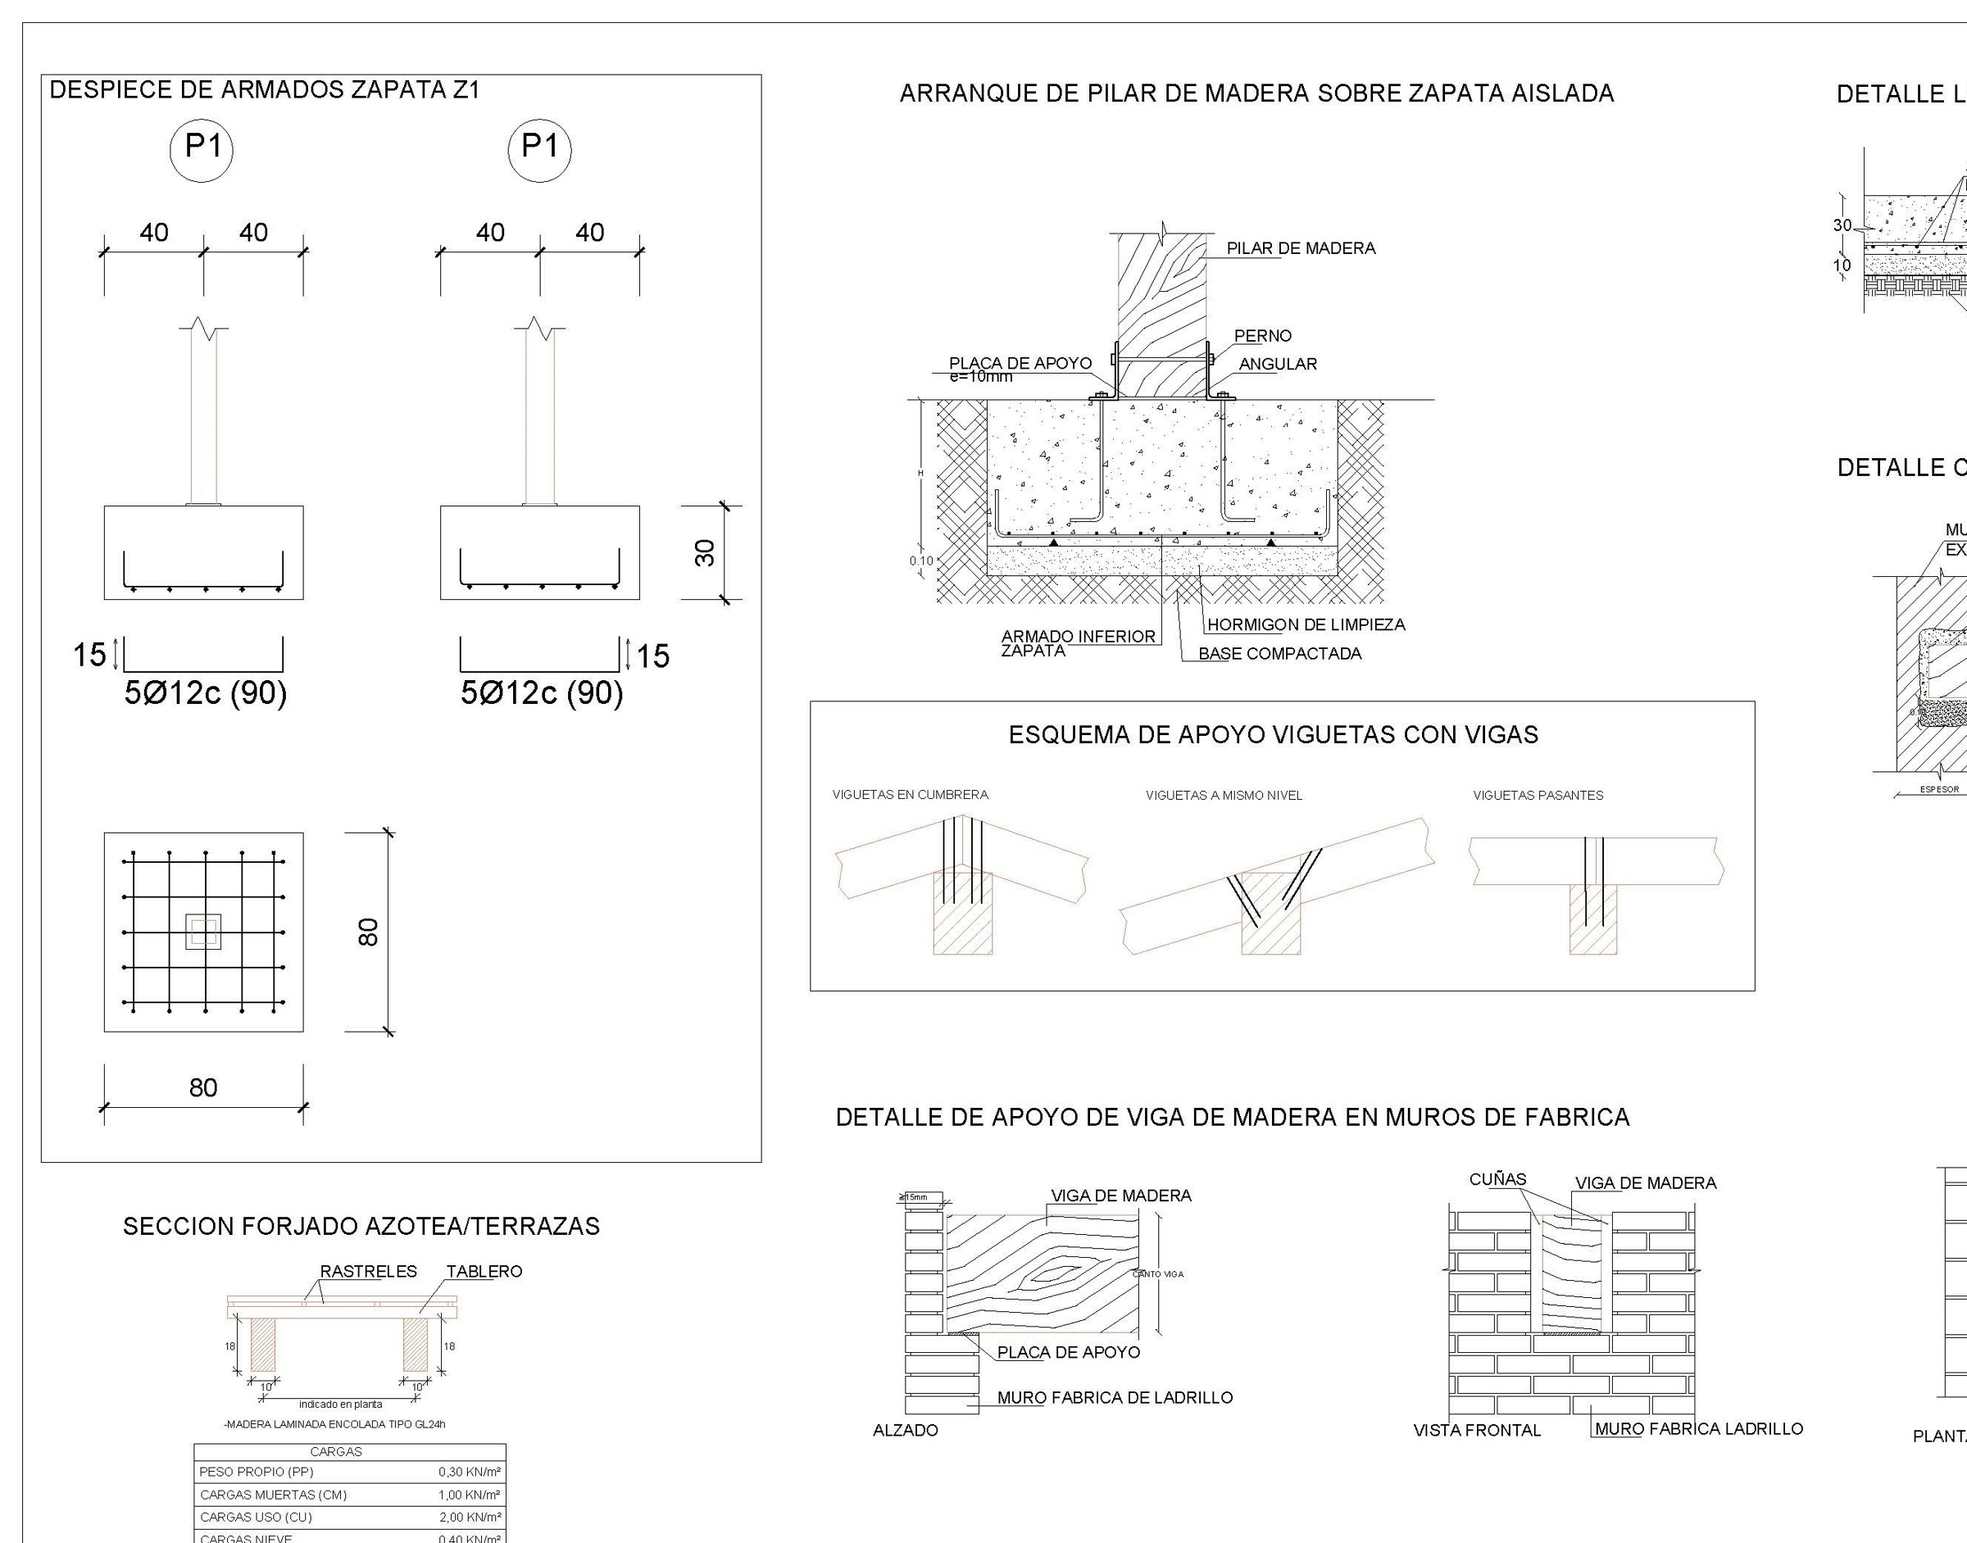
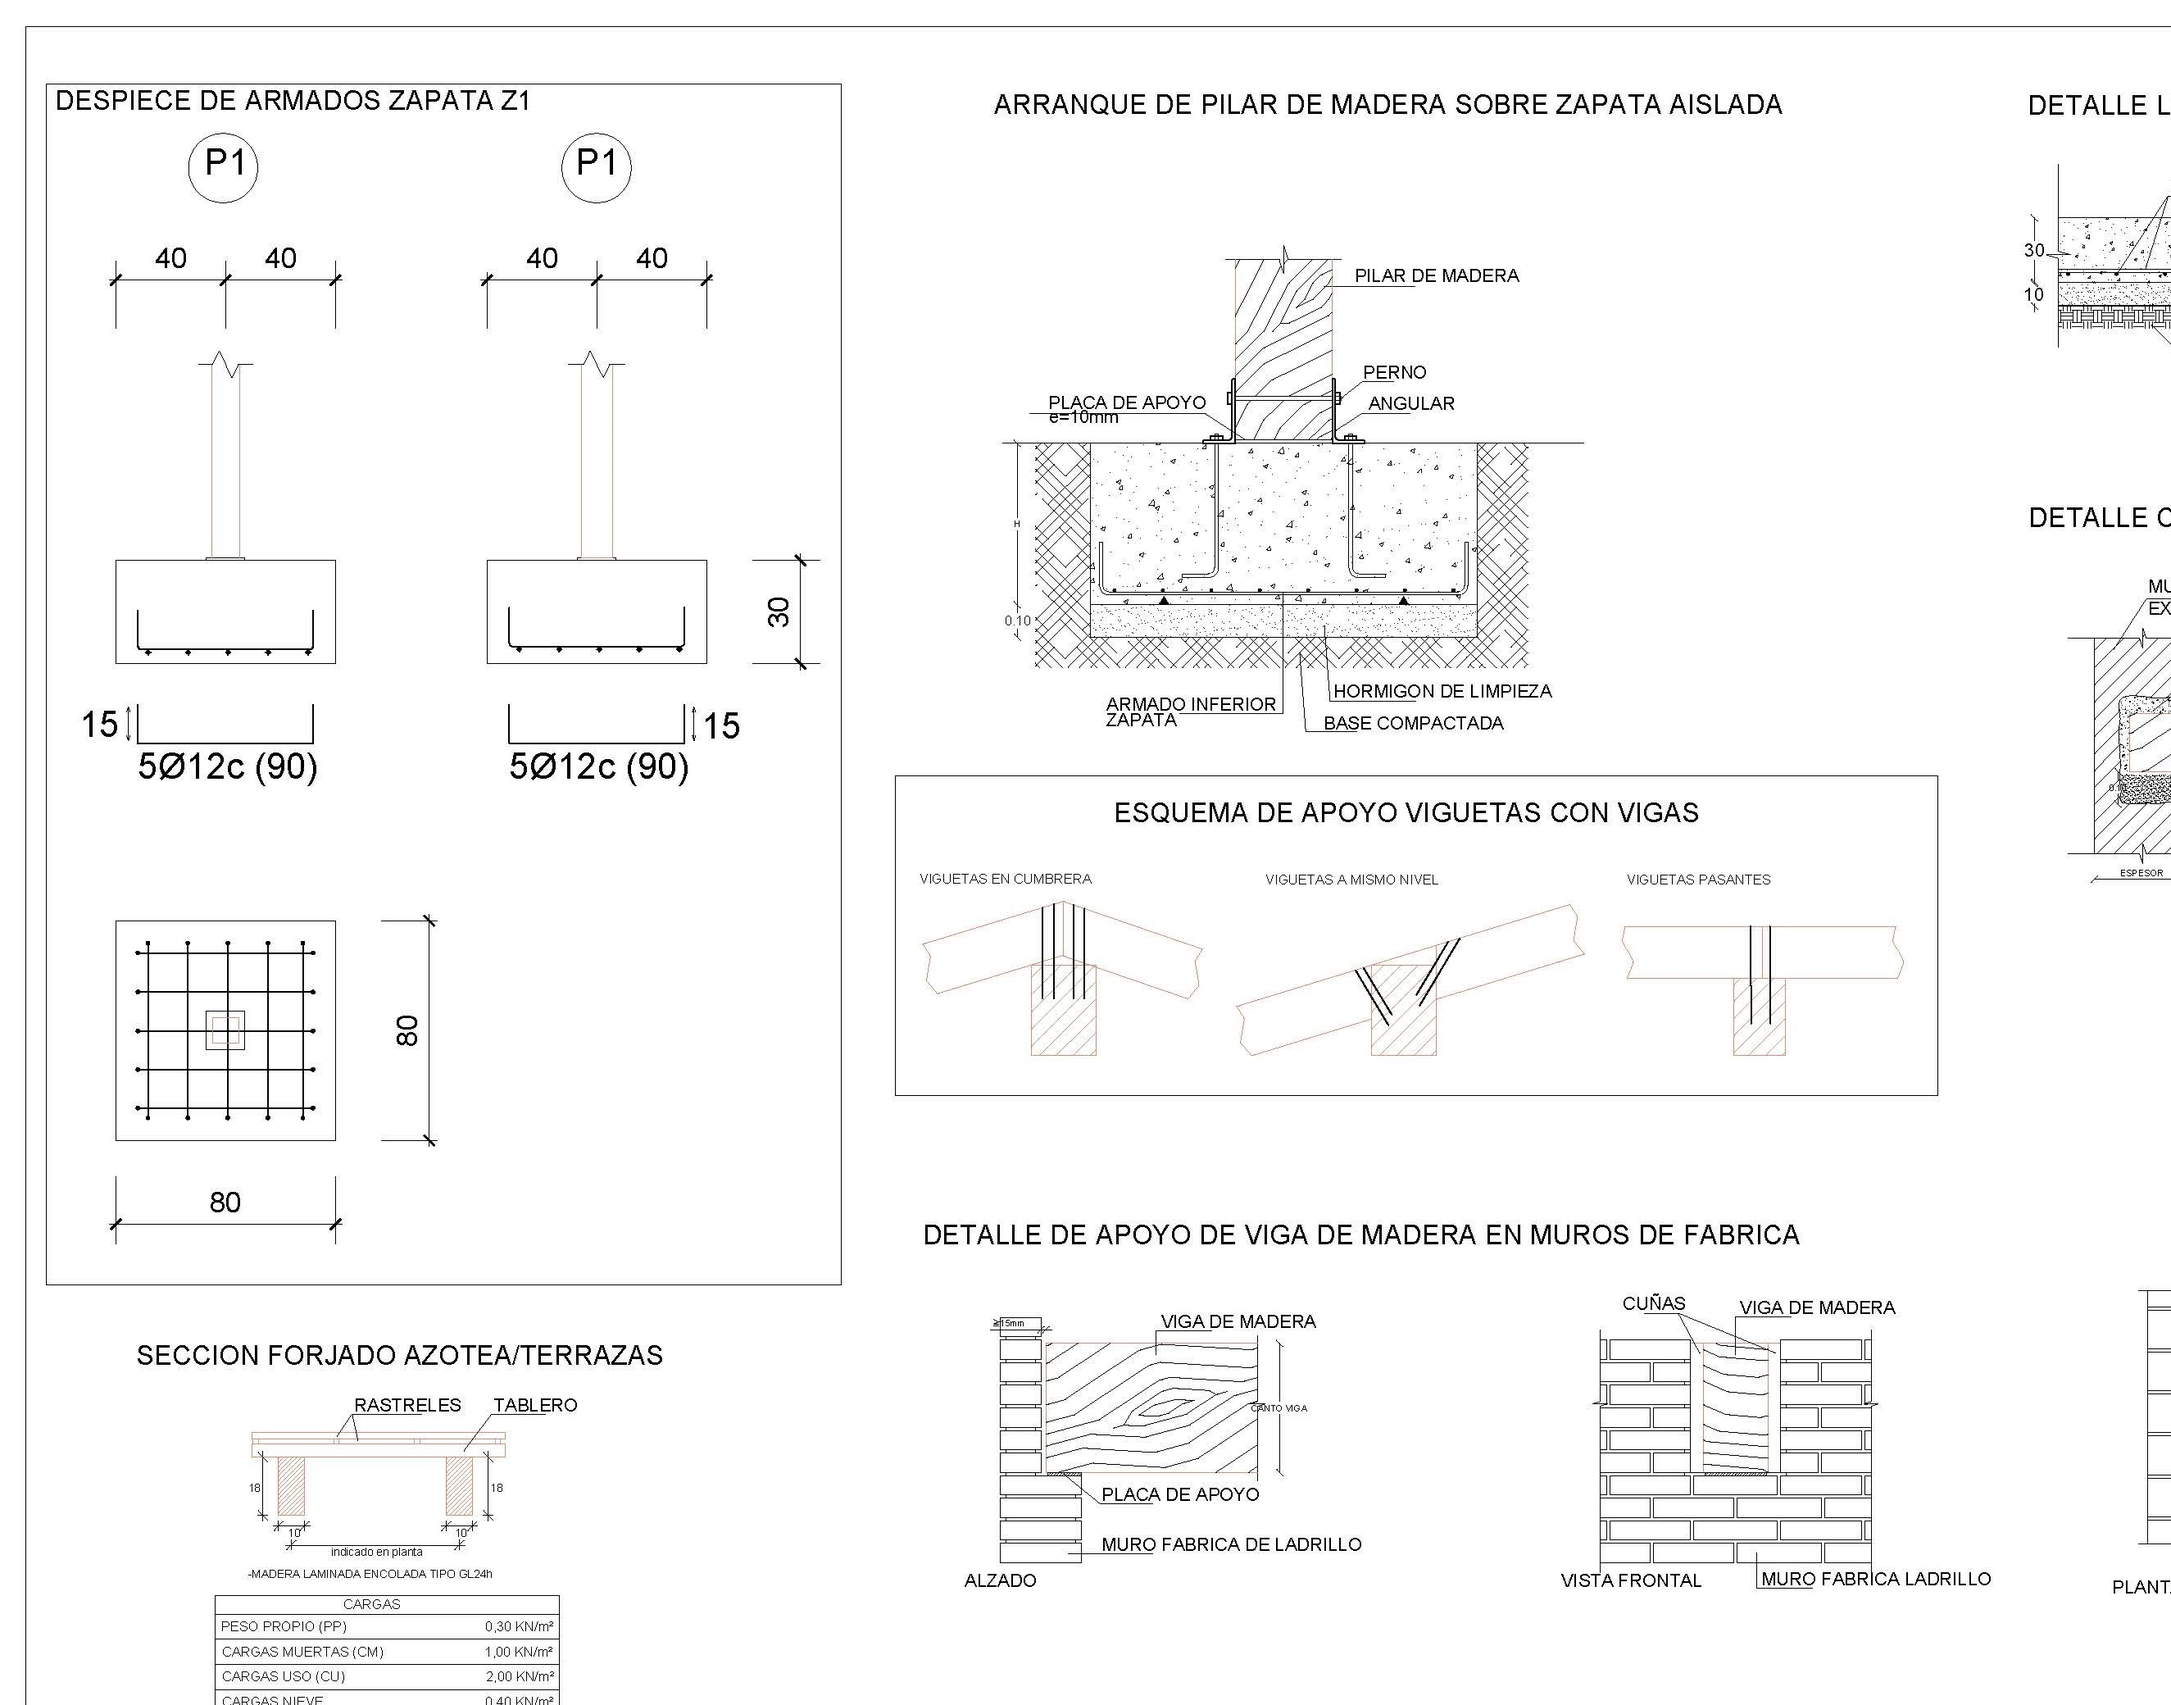
Portfolio: láminas originales en alta resolución (desde los PDF), sin modo oscuro ni líneas engordadas, zoom sin ampliar por encima de la resolución real
Claude-Session: https://claude.ai/code/session_01WbWEpVjSxpCmHgVAKyh9E1

diff --git a/portafolio.py b/portafolio.py
@@ -8,8 +8,8 @@ Tipos (rotan):
     capas       «Las instalaciones de una vivienda, capa a capa»: la misma planta con fontanería, electricidad, iluminación…
     detalles    «Un detalle constructivo bien resuelto, de cerca»: recorrido de cámara por secciones y detalles
 
-Estilo: planos en «modo oscuro» (la línea en crema y el color de cada instalación conservado, sobre negro), cámara
-que recorre y se acerca a donde está el trabajo (las zonas con más instalación), trazado que se «dibuja» al entrar,
+Estilo: las láminas ORIGINALES (fondo blanco, línea y colores tal cual, sin engrosar) en alta resolución, como una
+hoja sobre fondo negro; cámara que nunca amplía por encima de la resolución real (nítida siempre) y que recorre y se acerca a donde está el trabajo (las zonas con más instalación), trazado que se «dibuja» al entrar,
 etiqueta dorada por lámina, voz de arquitecto que cuenta lo que se ve y cierre con la propuesta de UDA.
 """
 import re, io, base64, json, math, os, random, subprocess, time
@@ -26,6 +26,7 @@ DIR = os.path.join(HERE, "assets", "portfolio")
 ORO, CREMA, NEGRO = fx.ORO, fx.CREMA, fx.NEGRO
 BOX = (30, 430, 1050, 1390)                 # zona del plano (entre el título y la etiqueta, dentro de la zona segura)
 FONDO = (12, 12, 13)
+PAPEL = (252, 251, 248)                      # la hoja: el plano tal cual, sin modo oscuro
 
 HOOKS = {
     "proyecto": ["POV: delegas el Proyecto de Ejecución y te llega esto",
@@ -104,16 +105,17 @@ def vista(img, z, c):
     bw, bh = BOX[2] - BOX[0], BOX[3] - BOX[1]
     iw, ih = img.size
     s = min(bw / iw, bh / ih) * z
+    s = min(s, 1.0)                                                    # nunca por encima de la resolución real: nítido
     vw, vh = bw / s, bh / s                                            # ventana en píxeles de la imagen
     cx = min(max(c[0] * iw, vw / 2), iw - vw / 2) if vw < iw else iw / 2
     cy = min(max(c[1] * ih, vh / 2), ih - vh / 2) if vh < ih else ih / 2
     x0, y0 = cx - vw / 2, cy - vh / 2
     sx0, sy0, sx1, sy1 = max(0, x0), max(0, y0), min(iw, x0 + vw), min(ih, y0 + vh)
-    out = Image.new("RGB", (bw, bh), FONDO)
+    out = Image.new("RGB", (bw, bh), PAPEL)
     if sx1 > sx0 and sy1 > sy0:
         dx0, dy0 = (sx0 - x0) * s, (sy0 - y0) * s
         dw, dh = (sx1 - sx0) * s, (sy1 - sy0) * s
-        part = img.resize((max(1, int(dw)), max(1, int(dh))), Image.BICUBIC, box=(sx0, sy0, sx1, sy1))
+        part = img.resize((max(1, int(dw)), max(1, int(dh))), Image.LANCZOS, box=(sx0, sy0, sx1, sy1))
         out.paste(part, (int(dx0), int(dy0)))
     return out
 
@@ -211,7 +213,7 @@ def _voz(textos):
 def render(G, out, seed=0):
     import visual as V
     golpes = G["golpes"]
-    imgs = [oscuro(Image.open(os.path.join(DIR, g["f"] + ".jpg"))) for g in golpes]
+    imgs = [Image.open(os.path.join(DIR, g["f"] + ".jpg")).convert("RGB") for g in golpes]
     focos = [foco(Image.open(os.path.join(DIR, g["f"] + ".jpg"))) for g in golpes]
     textos = [G["hook"]] + [g["voz"] for g in golpes] + [G["cierre_voz"]]
     clips = _voz(textos)
@@ -227,7 +229,7 @@ def render(G, out, seed=0):
     t_fin = t; d_fin = max(dur[-1] + 0.9, 2.8); total = t_fin + d_fin
     vo_at = [0.25, 0.25 + dur[0] + 0.35] + [seg[k][1] + 0.35 for k in range(1, len(golpes))] + [t_fin + 0.3]
 
-    hook_big = V._panel(fx.headline(G["hook"], 98, 960, 3, color=CREMA, hot=ORO, shadow=True), 44, 150)
+    hook_big = V._panel(fx.headline(G["hook"], 98, 960, 3, color=CREMA, hot=ORO, shadow=True), 44, 225)
     tit = V._panel(fx.headline(G["hook"], 46, 940, 2, color=CREMA, hot=ORO, shadow=True), 22, 120)
     real = fx.pill("PROYECTO REAL · HECHO POR UDA", 30, ORO, NEGRO, padx=22, pady=10, radius=4)
     subs = [fx.text_block(G["sub"] if G["tipo"] == "proyecto" else f"{g['proyecto']} · {g['fase']}", F_BOLD, 32, 960,
@@ -300,7 +302,7 @@ def render(G, out, seed=0):
 
     proc = subprocess.Popen(["ffmpeg", "-y", "-loglevel", "error", "-f", "rawvideo", "-pix_fmt", "rgb24", "-s", f"{W}x{H}",
                              "-r", str(FPS), "-i", "-", "-i", wav, "-shortest", "-c:v", "libx264", "-preset", "veryfast",
-                             "-crf", "20", "-maxrate", "8M", "-bufsize", "12M", "-g", str(FPS * 2), "-pix_fmt", "yuv420p",
+                             "-crf", "16", "-maxrate", "14M", "-bufsize", "20M", "-tune", "stillimage", "-g", str(FPS * 2), "-pix_fmt", "yuv420p",
                              "-r", str(FPS), "-c:a", "aac", "-b:a", "160k", "-ar", "48000", "-ac", "2",
                              "-movflags", "+faststart", out], stdin=subprocess.PIPE)
     bw, bh = BOX[2] - BOX[0], BOX[3] - BOX[1]
@@ -337,8 +339,6 @@ def render(G, out, seed=0):
                 fx.paste_center(fr, subs[k], W / 2, BOX[3] + 40, alpha=clamp((lt - (hook_t if k == 0 else 0.3)) / 0.4))
         else:
             lt = tt - t_fin
-            bgv = vista(imgs[-1], 1.0, (0.5, 0.5)).filter(ImageFilter.GaussianBlur(10)).convert("RGBA")
-            fr.paste(bgv, (BOX[0], BOX[1])); fr.alpha_composite(Image.new("RGBA", (W, H), (0, 0, 0, 170)))
             a = eob(clamp(lt / 0.4))
             fx.paste_center(fr, q, W / 2, 760 - (1 - a) * 30, alpha=clamp(a))
             c_ = clamp((lt - 0.5) / 0.4)
@@ -355,7 +355,7 @@ def portada(G, path):
     import infoviz as IV, themes
     T = themes.get("negro")
     g0 = G["golpes"][min(1, len(G["golpes"]) - 1)]
-    img = oscuro(Image.open(os.path.join(DIR, g0["f"] + ".jpg")))
+    img = Image.open(os.path.join(DIR, g0["f"] + ".jpg")).convert("RGB")
     base = Image.new("RGBA", (W, H), FONDO + (255,))
     v = vista(img, 1.25, foco(Image.open(os.path.join(DIR, g0["f"] + ".jpg")))).convert("RGBA")
     base.paste(v, (BOX[0], BOX[1] + 120))
@@ -378,8 +378,9 @@ def revisar(path, G):
                         "-preset", "veryfast", "-crf", "30", "-c:a", "aac", "-b:a", "48k", small], check=True)
         data = base64.b64encode(open(small, "rb").read()).decode()
         res = reviewer._ask([{"text": f"""Eres director creativo de una cuenta de arquitectura para FUNDADORES DE
-DESPACHOS. Revisa este reel con PLANOS REALES de un proyecto que UDA desarrolló para un estudio (en «modo oscuro», a
-propósito). Gancho: «{G['hook']}». Voz (sintética de España, a propósito): {' / '.join(G.get('lineas', []))}.
+DESPACHOS. Revisa este reel con PLANOS REALES de un proyecto que UDA desarrolló para un estudio (las láminas originales, sobre
+fondo blanco). Comprueba también que el dibujo se vea NÍTIDO (sin borrosidad, sin líneas engordadas o emborronadas) y
+que se entienda lo que hay dibujado en cada lámina. Gancho: «{G['hook']}». Voz (sintética de España, a propósito): {' / '.join(G.get('lineas', []))}.
 Comprueba: que la voz diga lo mismo que las etiquetas y textos en pantalla, que los textos superpuestos se lean en el
 móvil y no los tape la interfaz, que el gancho se entienda en 1,5 s, ritmo, que se vea premium e impresione a un
 arquitecto, y que NO aparezca ningún dato sensible (nombre de cliente o estudio, calle, dirección, coordenadas,
